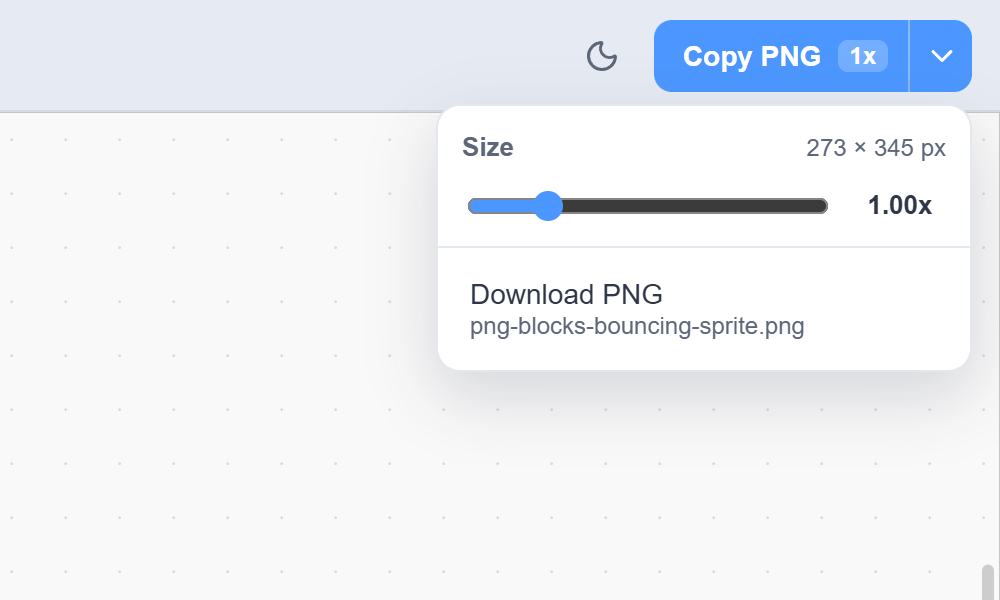
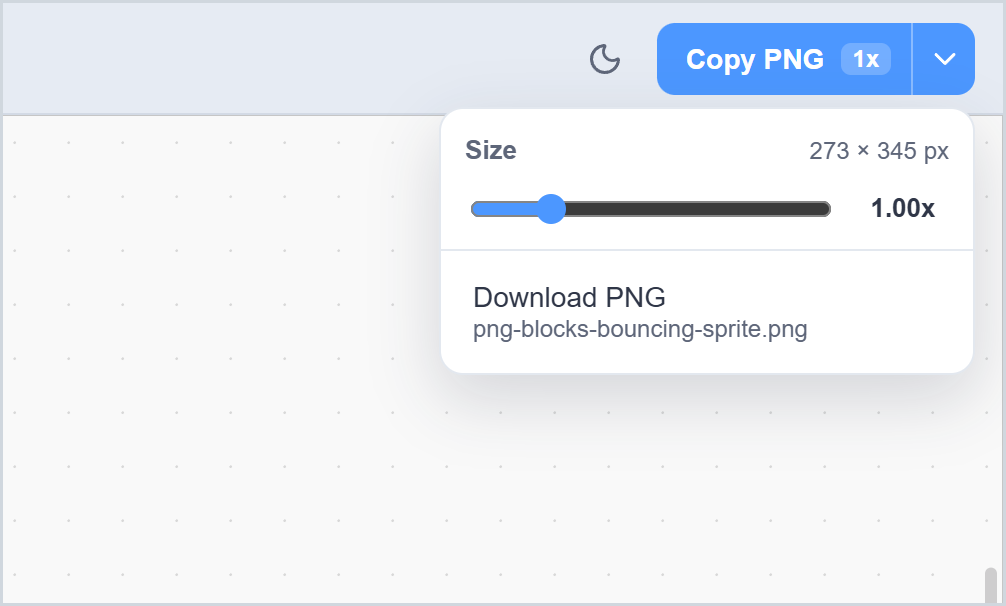
docs: point readme at the live site and frame screenshots (#47)
* docs: point readme at the live site and frame screenshots

* chore: bump version to 1.1.6

* docs: revise readme copy

---------

diff --git a/README.md b/README.md
@@ -1,20 +1,22 @@
 # <img src="docs/images/logo.png" width="44" align="middle" alt=""> PNG blocks!
 
-Clean pictures of Scratch code, ready for your slides and worksheets.
+Create screenshots of Scratch blocks and programs for your slides and worksheets.
 
-Snap Scratch 3 blocks together exactly as you would in Scratch, then copy them to your clipboard as a transparent PNG trimmed to the blocks. Paste straight into Google Slides, PowerPoint, Word or Docs. No screenshots, no cropping, no stray backgrounds.
+PNG blocks! allows you to snap blocks together exactly as you would in Scratch, then copy them to your clipboard as a transparent PNG trimmed to the blocks. You can adjust the size before you copy, and you can paste into another application without the need to crop or resize.
+
+**[Open PNG blocks!](https://pngblocks.netlify.app)** It runs directly in your browser.
 
 ![The PNG blocks! window: a Scratch script on the canvas with the block palette on the left](docs/images/window.png)
 
-## What you get
+## How to use PNG blocks!?
 
-Build a script, press **Copy PNG**, and this lands on your clipboard:
+Build a script, press **Copy PNG**, and this image will be copied to your clipboard:
 
 <img src="docs/images/example.png" width="266" alt="An exported PNG of a Scratch script with a transparent background">
 
-The background is transparent and the edges are trimmed tight to the blocks, so the picture sits cleanly on any slide colour.
+The background is transparent and the edges are trimmed tight to the blocks, so the picture sits cleanly on any slide colour or worksheet.
 
-## Size it for the job
+## Adjust the image size
 
 Open the menu next to **Copy PNG** to set the size from 0.25x to 4x. The menu shows the exact pixel size before you copy. Go small for an inline worksheet snippet, or large for a projector. Prefer a file? **Download PNG** saves it, named after your tab.
 
@@ -34,24 +36,9 @@ Right-click any block and choose **Copy Block to Clipboard** to grab that block 
 - **Edit anything.** Type into inputs, pick dropdown values, add comments, and define your own blocks.
 - **Tabs.** Keep one tab per lesson or worksheet. Rename, duplicate, clear or close them from the tab menu. Your tabs are saved in your browser, so they are still there next time.
 - **Dark mode.** Switch with the moon button in the top bar. Exported PNGs look the same in either mode.
-- **Tutorial.** A short guided tour plays on your first visit. Replay it any time with the graduation cap button.
+- **Tutorial.** A short guided tour plays on your first visit. Replay it any time with the Tutorial button in the lower left.
 
 ![Dark mode with the Pen extension open](docs/images/dark.png)
-
-## Running PNG blocks!
-
-PNG blocks! runs in your browser. To start it on your own computer, install [Node.js](https://nodejs.org) and [Yarn](https://classic.yarnpkg.com), then run:
-
-```
-git clone https://github.com/wpinrui/png-blocks.git
-cd png-blocks
-yarn
-yarn dev
-```
-
-Open the address it prints, usually http://localhost:5173.
-
-To host it yourself, run `yarn build` and upload the `dist/` folder to any static web host.
 
 ## Crediting Scratch
 
